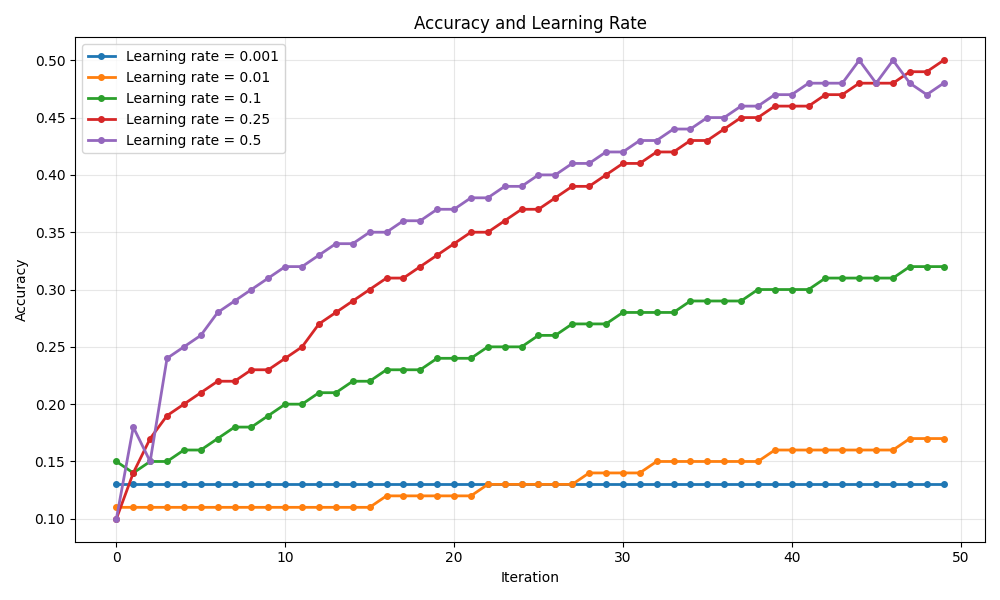
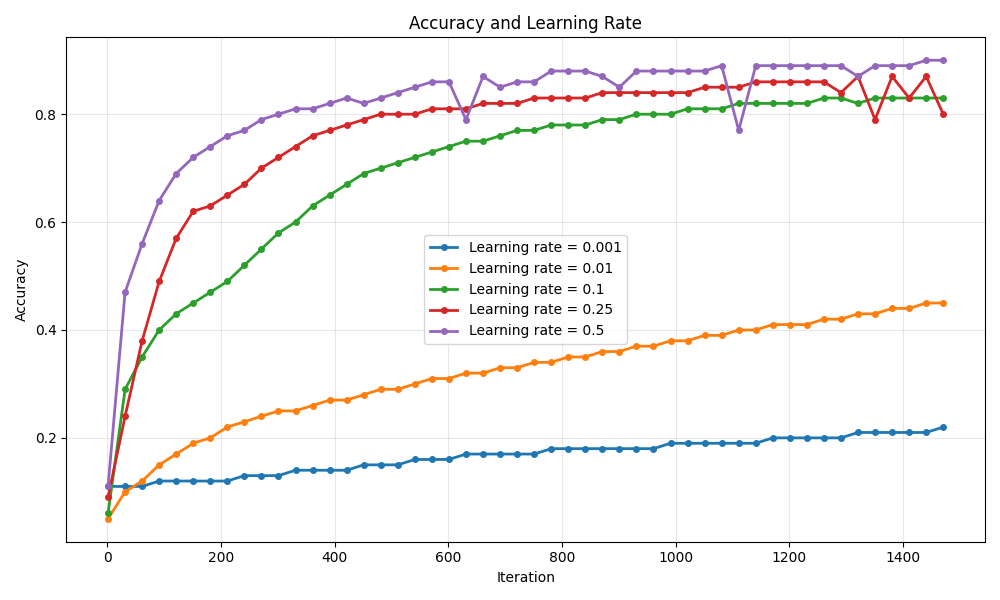
improve the generation of the learning rate vs accuracy graph

diff --git a/hyper-tune.py b/hyper-tune.py
@@ -1,39 +1,58 @@
+import sys
 import matplotlib.pyplot as plt
 from nn_from_scratch.dataset import Dataset
 from nn_from_scratch.network import Network
 
+def show_progress(step: int, max: int, message: str):
+    assert max >= step
+
+    sys.stdout.write("\rProgress: |")
+
+    for i in range(max):
+        if i <= step:
+            sys.stdout.write("█")
+        else:
+            sys.stdout.write("·")
+
+    sys.stdout.write(f"| {message}")
+
+    sys.stdout.flush()
+
 def main():
+    sys.stdout.write("Loading the dataset. This may take a minute...")
+    sys.stdout.flush()
+
     dataset = Dataset(split='train')
     X, Y = dataset.get_features_and_labels()
 
-    iterations = 50
+    iterations = 1500
+    learning_rates = [0.5, 0.25, 0.1, 0.01, 0.001]
+
+    total_iterations = iterations * len(learning_rates)
+    completed_iterations = 0
+    show_progress(0, 100, f"{completed_iterations} completed iterations from a total of {total_iterations}")
 
     accuracies_report = {}
+    for learning_rate in learning_rates:
+        accuracies_report[learning_rate] = {"iterations": [], "accuracies": []}
 
-    accuracies_report[0.5] = train(X, Y, iterations, 0.5)
-    accuracies_report[0.25] = train(X, Y, iterations, 0.25)
-    accuracies_report[0.1] = train(X, Y, iterations, 0.1)
-    accuracies_report[0.01] = train(X, Y, iterations, 0.01)
-    accuracies_report[0.001] = train(X, Y, iterations, 0.001)
+        nn = Network()
+        for i, accuracy in nn.train(X, Y, iterations=iterations, learning_rate=learning_rate):
+            if i % 30 == 1:
+                accuracies_report[learning_rate]["iterations"].append(i)
+                accuracies_report[learning_rate]["accuracies"].append(accuracy)
+
+            completed_iterations += 1
+            show_progress(100 * completed_iterations / total_iterations, 100, f"{completed_iterations} completed iterations from a total of {total_iterations}")
 
     plot(accuracies_report)
-
-def train(X, Y, iterations: int, learning_rate: float):
-    nn = Network()
-
-    accuracies = []
-
-    for i, accuracy in nn.train(X, Y, iterations=iterations, learning_rate=learning_rate):
-        accuracies.append(accuracy)
-
-    return accuracies
 
 def plot(accuracies_report):
     plt.figure(figsize=(10, 6))
 
     for learning_rate in sorted(accuracies_report.keys()):
-        accuracies = accuracies_report[learning_rate]
-        iterations = range(len(accuracies))
+        accuracies = accuracies_report[learning_rate]["accuracies"]
+        iterations = accuracies_report[learning_rate]["iterations"]
 
         plt.plot(
             iterations,
@@ -50,7 +69,6 @@ def plot(accuracies_report):
     plt.legend()
     plt.grid(True, alpha=0.3)
     plt.tight_layout()
-
     plt.show()
 
 if __name__ == "__main__":
